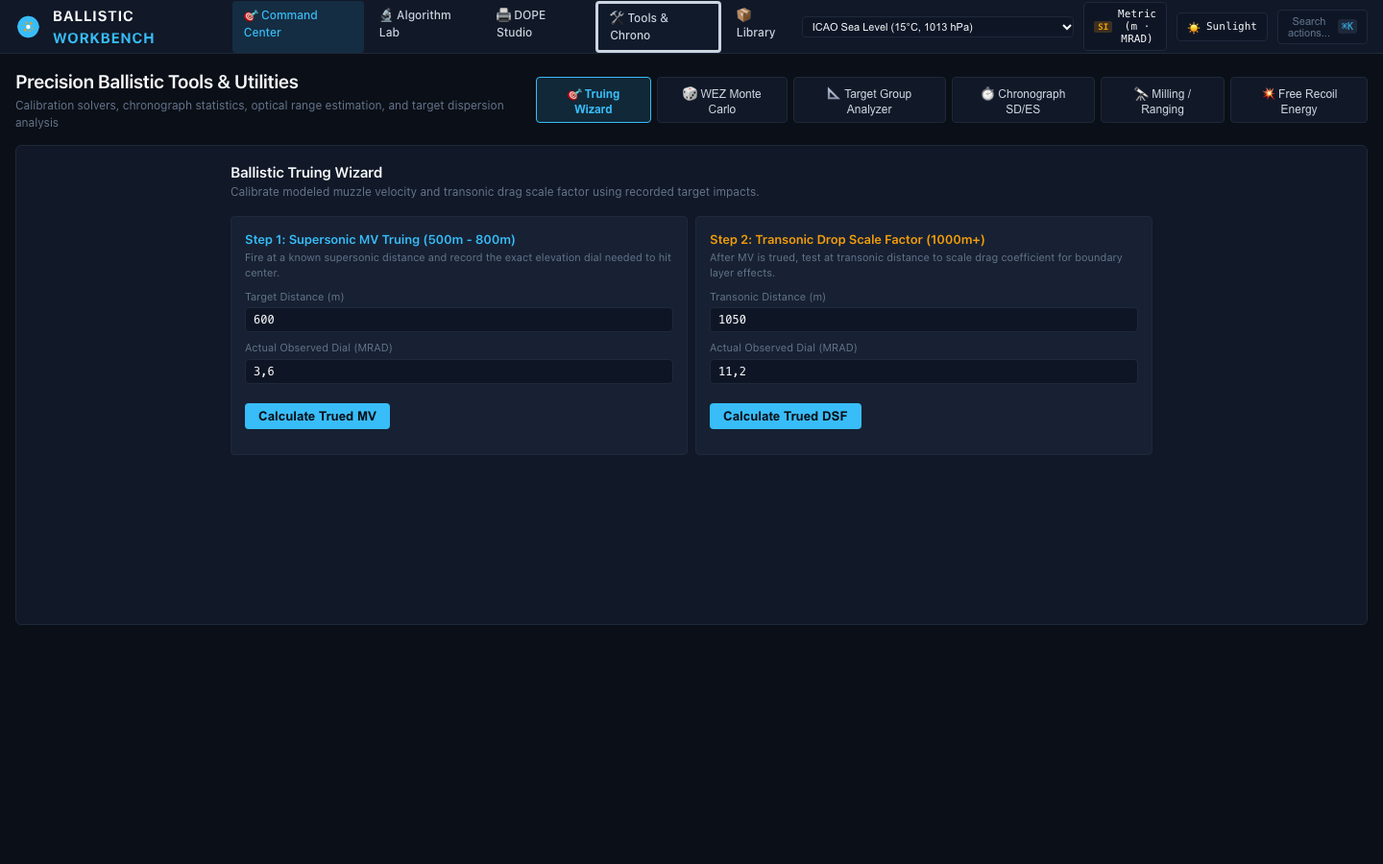
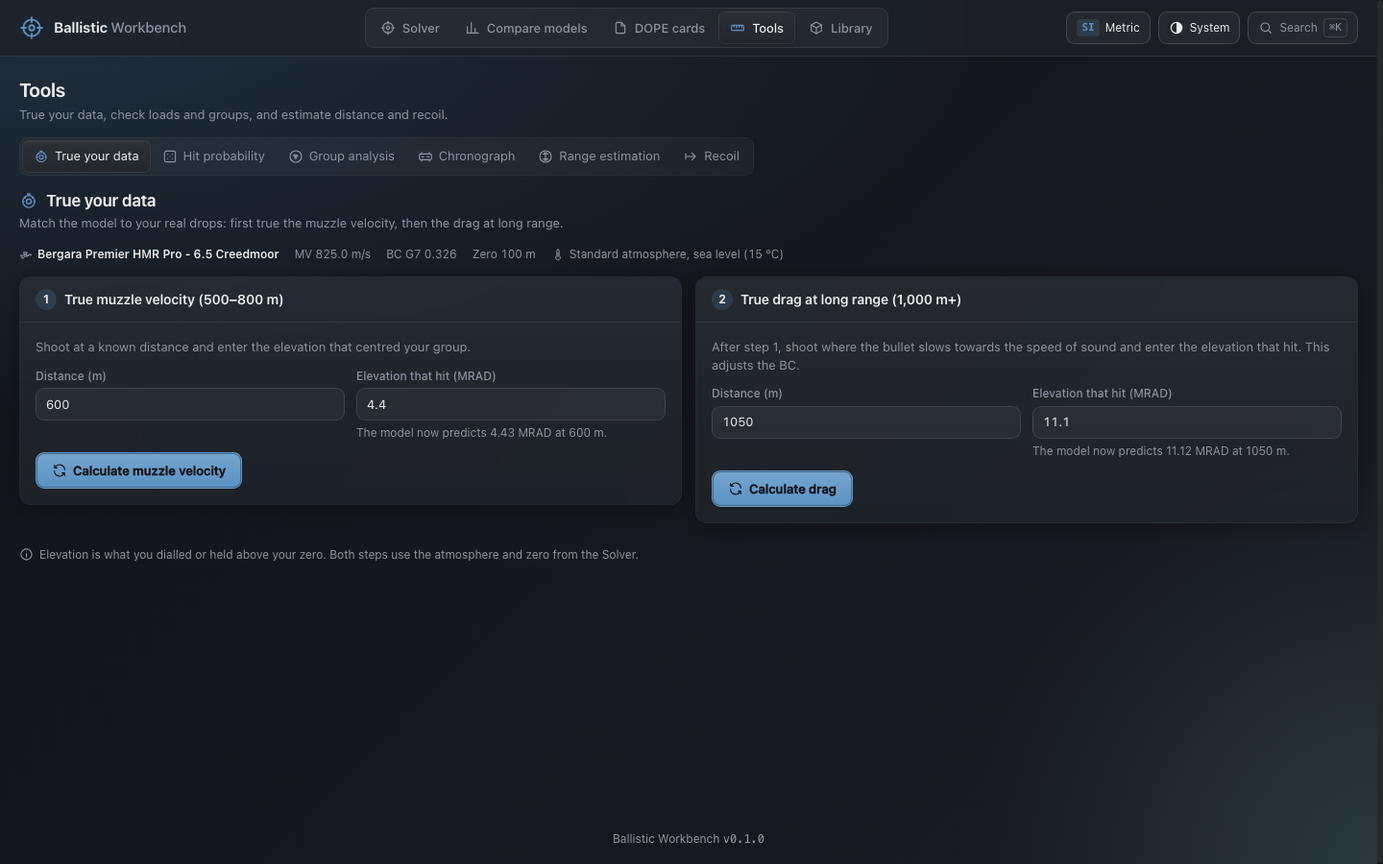
Docs: README, CHANGELOG, CLAUDE.md and screenshots for the redesign

diff --git a/README.md b/README.md
@@ -1,13 +1,13 @@
 # Ballistic Workbench
 
-An offline-first external ballistics workbench for precision rifle shooters. It solves
-trajectories with an RK4 integrator (G1, G7, Modified Point-Mass and 4DOF models), simulates
-reticle holdovers and turret dials, trues the model against real impacts, and prints DOPE cards
-in field formats: scope cap, wrist coach, stock tape, turret tape, PRS stage card and an A4 data
-sheet.
+An offline ballistics calculator for precision rifle shooters. Pick your rifle, set the distance
+and conditions, and it tells you what to dial: elevation and windage in MRAD or MOA, with the
+clicks for your scope. It also shows the hold in a simulated reticle, plots the trajectory, prints
+range cards (DOPE cards) and has tools to true the model against your real impacts.
 
-It's for long-range and PRS/NRL shooters, hunters and reloaders who want to plan and check
-firing solutions on a laptop or phone, with or without a network on the range.
+It's for long-range and PRS/NRL shooters, hunters and reloaders who want to plan and check firing
+solutions on a laptop or phone, with or without a network on the range. Everything runs in the
+browser; nothing is sent anywhere.
 
 **Version:** 0.1.0
 
@@ -18,26 +18,41 @@ firing solutions on a laptop or phone, with or without a network on the range.
 
 ### 0.1.0
 
-- First tracked version: the existing app brought under version control and the app standards.
-- Version number shown in the app footer, read from `manifest.json`.
-- README, CHANGELOG, CLAUDE.md, SECURITY.md and an MIT license.
+The first version, with a complete redesign and a corrected ballistics engine:
 
-Older versions: see [CHANGELOG.md](CHANGELOG.md).
+- **Correct drag model.** Standard G1 and G7 drag tables (JBM), cross-checked against an independent
+  solver within 0.01 MRAD and against Hornady's published 6.5 Creedmoor table. Corrected aerodynamic
+  jump, spin drift, cant, Coriolis, stability and powder temperature; the zero no longer shifts with
+  field conditions; 27 bullet BCs corrected to published values.
+- **New interface** in the Låda Glass design, dark and light (follows your system), custom icons,
+  plain-language text, and a phone layout.
+- **Solver** shows one clear firing solution (elevation and windage with direction and clicks),
+  with the reticle, trajectory chart and range table in tabs. Inputs are validated as you type.
+- **DOPE cards** print at exact physical size; **Tools** each give a plain verdict; **Library**
+  can edit, duplicate and delete rifles with undo.
+- **Security:** strict Content-Security-Policy, imported and saved data is validated, no inline
+  code, offline cache limited to the app's own files.
+
+See [CHANGELOG.md](CHANGELOG.md) for the full list.
 
 ## Screenshots
 
 <table>
   <tr>
-    <td><img src="docs/screenshots/workspace.png" alt="Command Center" width="400"><br>Command Center: telemetry, reticle and turret, trajectory chart and DOPE table</td>
-    <td><img src="docs/screenshots/solverLab.png" alt="Algorithm Lab" width="400"><br>Algorithm Lab: G1, G7, MPM and 4DOF solutions side by side</td>
+    <td><img src="docs/screenshots/workspace.png" alt="Solver, dark theme" width="420"><br>Solver: the firing solution, with the reticle hold and elevation turret</td>
+    <td><img src="docs/screenshots/workspace-light.png" alt="Solver, light theme" width="420"><br>The same in the light theme</td>
   </tr>
   <tr>
-    <td><img src="docs/screenshots/dopeStudio.png" alt="DOPE Studio" width="400"><br>DOPE Studio: print-ready range cards</td>
-    <td><img src="docs/screenshots/tools.png" alt="Tools and Chrono" width="400"><br>Tools &amp; Chrono: truing wizard, WEZ, group analysis and more</td>
+    <td><img src="docs/screenshots/dopeStudio.png" alt="DOPE cards" width="420"><br>DOPE cards: six printable formats with a true-size preview</td>
+    <td><img src="docs/screenshots/tools.png" alt="Tools" width="420"><br>Tools: true your data, hit probability, group analysis, chronograph, range estimation, recoil</td>
   </tr>
   <tr>
-    <td><img src="docs/screenshots/libraryManager.png" alt="Library" width="400"><br>Library: 177 projectiles, custom bullets and rifle profiles</td>
-    <td><img src="docs/screenshots/mobile.png" alt="Phone layout" width="200"><br>Phone width (390 px)</td>
+    <td><img src="docs/screenshots/libraryManager.png" alt="Library" width="420"><br>Library: your rifles, 177 bullets and your own bullets</td>
+    <td><img src="docs/screenshots/solverLab.png" alt="Compare models" width="420"><br>Compare models: how G1, G7, MPM and 4DOF differ for your rifle</td>
+  </tr>
+  <tr>
+    <td><img src="docs/screenshots/mobile.png" alt="Phone layout" width="200"><br>Phone layout (390 px)</td>
+    <td><img src="docs/screenshots/dope-light.png" alt="DOPE cards, light theme" width="420"><br>Full-page data sheet in the light theme</td>
   </tr>
 </table>
 
@@ -45,18 +60,18 @@ Older versions: see [CHANGELOG.md](CHANGELOG.md).
 
 | View | What it does |
 | --- | --- |
-| 🎯 **Command Center** | Live firing solution for the active rifle and environment: elevation, windage, velocity, time of flight, energy, supersonic limit and density altitude. Includes a reticle holdover simulator (FFP/SFP, several reticles), an interactive elevation turret, a trajectory chart (drop, velocity, wind drift, time of flight, energy), a wind clock and a configurable DOPE table with CSV export. |
-| 🔬 **Algorithm Lab** | Compares G1, G7, Modified Point-Mass and 4DOF solutions on one chart, with a delta table relative to G7. |
-| 🖨 **DOPE Studio** | Print-ready cards: scope cap (SVG), wrist coach, stock tape, turret tape, PRS stage card (with a stage builder, exportable as PNG) and an A4 master data sheet. |
-| 🛠 **Tools & Chrono** | Truing wizard (supersonic muzzle velocity and transonic drop scale factor), WEZ Monte Carlo hit probability, target group analyzer (from a photo or grid), chronograph SD/ES statistics, milling and range estimation, free recoil energy. |
-| 📦 **Library** | 177 factory projectiles with search and filters, a custom bullet builder with a live Miller stability estimate, rifle and optic profiles, and JSON backup and restore. |
+| **Solver** | The firing solution for the active rifle at the exact target distance: elevation and windage (MRAD or MOA, direction and clicks), velocity with Mach, time of flight, energy and how far the bullet stays supersonic. Tabs: a reticle view showing where to hold, with an elevation turret you can dial (mouse, touch or keyboard); a trajectory chart (drop, velocity, wind drift, time of flight, energy); a range table with CSV export, where you tick the distances for your DOPE card. |
+| **Compare models** | How the point-mass G1 and G7, modified point mass (MPM: adds spin drift, aerodynamic jump and Coriolis) and 4DOF solutions differ for your rifle, as difference charts and a table. "Use in Solver" switches the model. |
+| **DOPE cards** | Printable range cards at exact physical size: scope cap insert, 3 × 5 in wrist card, stock tape, turret tape, match stage card (with a stage builder and wind holds for lull, base and gust) and a full-page data sheet. Copy as text, save as image, or print. |
+| **Tools** | **True your data** (muzzle velocity from a 500–800 m impact, then drag from a 1,000 m+ impact, applied to the rifle), **Hit probability** (simulates 500–2,000 shots from your error sources and shows what causes misses), **Group analysis** (from a photo or clicks: extreme spread, mean radius, dispersion ellipse and the correction to centre the group), **Chronograph** (SD, ES, mean; use the mean as muzzle velocity), **Range estimation** (from target size and reticle reading), **Recoil** (free recoil energy and velocity). |
+| **Library** | Your rifles (use, edit, duplicate, delete with undo), 177 factory bullets with search and caliber filter (published BCs marked with their source, derived ones marked "estimated"), your own bullets with a live Miller stability check, and backup to / restore from a file. |
 
-A command palette (**⌘K** / **Ctrl+K**) reaches every view and most settings.
+The command palette (**⌘K** on Mac, **Ctrl+K** elsewhere) reaches every view, tool and setting.
 
 ## Installation
 
-There is no build step and no dependencies. The app is plain HTML, CSS and ES modules, served as
-static files.
+There is no build step and the app has no runtime dependencies: it is plain HTML, CSS and
+JavaScript modules served as static files.
 
 ```sh
 git clone https://github.com/jozeta/Ballistic-Workbench.git
@@ -64,53 +79,67 @@ cd Ballistic-Workbench
 python3 -m http.server 8080
 ```
 
-Then open <http://localhost:8080>. The app has to be served over HTTP: ES modules and the service
-worker don't load from `file://`.
+Then open <http://localhost:8080>. The app must be served over HTTP: JavaScript modules and the
+offline service worker don't load from `file://`.
 
-**Install as an app (PWA):** in Chrome or Edge, use *Install app* in the address bar. On iOS
-Safari, use *Share → Add to Home Screen*. After the first visit the app works fully offline.
+**Install as an app:** in Chrome or Edge, use *Install app* in the address bar; on iPhone or iPad,
+Safari's *Share → Add to Home Screen*. After the first visit the app works fully offline.
 
 ## Configuration
 
-All settings are stored in the browser (`localStorage`) and nothing leaves your device.
+Settings are stored in your browser (`localStorage`); nothing leaves your device. Use
+**Library → Export…** to keep a backup.
 
 | Setting | Where | Options | Default |
 | --- | --- | --- | --- |
-| Units | Header button / palette | Metric (m, m/s, MRAD, cm) or Imperial (yd, fps, MOA, in) | Metric |
-| Theme | Header button / palette | Dark (night) or high-contrast light (sunlight) | Dark |
-| Environment | Header dropdown | ICAO sea level, Alpine high (1,950 m), Desert heat (38 °C), Sub-zero winter (-12 °C), or custom values in the Command Center | ICAO sea level |
-| Rifle profile | Command Center / Library / palette | Bergara 6.5 Creedmoor, AI AXSR .300 PRC, Tikka T3x .308, Remington 700 .223, or your own | Bergara 6.5 Creedmoor |
-| Solver algorithm | Command Center / palette | G1, G7, MPM, 4DOF | G7 |
-| Table step | DOPE table | Range step between rows | 25 m |
-| Max range | Solver config | Furthest range solved | 1,200 m |
-| Spin drift, Coriolis, aerodynamic jump | Solver config | On / off | All on |
-| Target | Command Center | Distance, shape (IPSC, circle, square, NATO E), size, speed and direction | 600 m IPSC torso (45 × 75 cm), stationary |
+| Units | Header button, palette | Metric (m, m/s, MRAD, cm) or imperial (yd, fps, MOA, in) | Metric |
+| Theme | Header button, palette | System, light, dark | System |
+| Rifle | Solver, Library, palette | Four example rifles (6.5 Creedmoor, .300 PRC, .308 Win, .223 Rem) or your own | 6.5 Creedmoor |
+| Distance and target | Solver → Target | Distance; target IPSC torso, round plate, square plate or NATO E | 600 m, IPSC torso |
+| Load and rifle | Solver → Load and rifle | Muzzle velocity, bullet weight, drag model (G1/G7), BC, solver model, sight height, zero distance, twist | From the rifle |
+| Solver model | Solver → Load and rifle, Compare models, palette | Point mass G7, point mass G1, modified point mass, 4DOF | Point mass G7 |
+| Atmosphere | Solver → Atmosphere | Presets (sea level, mountains 1,950 m, desert heat, winter) or your own temperature, station pressure, altitude and humidity; density altitude is shown | Standard atmosphere, sea level |
+| Wind | Solver → Wind | Speed and the direction it comes from (drag the wind clock or type degrees; 90° = from the right) | 4 m/s from 3 o'clock |
+| Shot angle and cant | Solver → Shot angle and cant | Inclination (+ uphill) and rifle cant (+ right) | 0° and 0° |
+| Scope | Solver → Reticle tab, rifle dialog | Reticle, first or second focal plane, magnification, click value (0.1 / 0.05 MRAD, 1/4 / 1/8 MOA) | From the rifle |
+| Range table | Solver → Range table | Row spacing 10 / 25 / 50 / 100 m; visible columns | 25 m, all columns |
+| DOPE card | DOPE cards | Format, distances (defaults or the ones ticked in the Solver), card size and colour | Full page |
 
 ## How to
 
-- **Get a firing solution:** pick a rifle profile, set the environment (or a preset), drag the
-  target range. The telemetry bar and the turret show the dial; the reticle shows the holdover.
-- **Add your own rifle:** Command Center → **+ New**, or Library → Saved Rifle & Optic Systems.
-  Enter muzzle velocity, sight height, zero, twist and the optic, then save.
-- **Add a custom bullet:** Library → Custom Projectile Builder. The Miller stability estimate
-  updates as you type; aim for Sg ≥ 1.5.
-- **True your model:** Tools & Chrono → Truing Wizard. Enter the dial that actually hit at a
-  supersonic distance (500 to 800 m) to true muzzle velocity, then a transonic distance (1000 m+)
-  to scale drag.
-- **Print a DOPE card:** DOPE Studio → pick a format → its **Print** button (the print stylesheet strips the
-  UI), or **Download SVG** / **Save PNG** where offered.
-- **Back up or move your data:** Library → **Export Library (JSON)**; restore with **Import JSON** on any device.
-- **Export the DOPE table:** Command Center → DOPE table → **CSV**.
+- **Get a firing solution:** choose your rifle at the top of the Solver, set the distance under
+  **Target**, then check **Atmosphere** and **Wind**. The firing solution card shows what to dial.
+- **Add your rifle:** press **+** next to the rifle in the Solver, or **Library → New rifle**. Pick a
+  bullet from the list (or enter your own), then the muzzle velocity, zero, sight height and scope.
+- **True the model to your rifle:** **Tools → True your data.** Shoot at 500–800 m, enter the
+  elevation that centred your group and apply the muzzle velocity. Then do the same at 1,000 m or
+  more to true the drag (it adjusts the BC).
+- **Use your chronograph:** **Tools → Chronograph**, paste the velocities (spaces, commas or new lines
+  between readings; 825,4 and 825.4 both work) and use the mean as the rifle's muzzle velocity.
+- **Print a DOPE card:** in the Solver's **Range table**, tick the distances you want and press
+  **Make DOPE card** (or go to **DOPE cards** directly for sensible defaults). Pick a format and press
+  **Print card**. Check the 50 mm scale bar with a ruler: printers sometimes scale pages.
+- **Plan a match stage:** **DOPE cards → Stage card**, choose a preset or add targets, set the lull,
+  base and gust wind; the card shows the elevation and wind hold for every target.
+- **Back up or move your data:** **Library → Export…** saves a file; **Import…** restores it on any
+  device (files are checked before anything is replaced).
 
 ## Tests
 
 ```sh
-node tests/verify.mjs          # physics, solvers, units, truing and WEZ
-node tests/version.mjs         # version agrees across manifest, service worker, README and CHANGELOG
-node tests/browser_check.mjs   # headless Chrome: every view, interactions, zero console errors
+npm install          # dev tools only (ESLint); the app itself needs nothing
+npm test             # physics and reference checks, helpers, version, offline cache list
+npm run test:browser # headless Chrome: every view in both themes and at phone width
+npm run lint
 ```
 
-`browser_check.mjs` needs Google Chrome installed in `/Applications`.
+`test:browser` needs Google Chrome (set `CHROME_PATH` if it isn't in `/Applications`). CI runs all of
+these on every push.
+
+## Design
+
+The interface uses Låda Glass 2.2.0 (`vendor/lada-glass/2.2.0/`). The icons (`assets/icons.svg`) and
+line-art graphics (`assets/art.svg`) are drawn for this app in the same style.
 
 ## License
 

diff --git a/CLAUDE.md b/CLAUDE.md
@@ -4,54 +4,71 @@ This file provides guidance to Claude Code (claude.ai/code) when working with co
 
 ## What this is
 
-Ballistic Workbench: an offline-first PWA for precision rifle external ballistics (RK4 trajectory
-solver with G1/G7/MPM/4DOF models, reticle and turret simulation, truing, WEZ Monte Carlo, printable
-DOPE cards). Vanilla JavaScript ES modules, no framework, no build step, no runtime dependencies.
-Public repo (MIT).
+Ballistic Workbench: an offline-first PWA ballistics calculator for precision rifle shooters (RK4
+point-mass solver with standard G1/G7 drag, MPM and a 4DOF variant; reticle and turret simulation;
+truing; hit-probability Monte Carlo; printable DOPE cards). Vanilla JavaScript ES modules, no
+framework, no build step, no runtime dependencies. Public repo (MIT).
 
 ## Commands
 
 ```sh
-python3 -m http.server 8080    # serve the app at http://localhost:8080 (must be HTTP, not file://)
-node tests/verify.mjs          # physics/solver/unit suite (~2600 assertions)
-node tests/version.mjs         # version consistency
-node tests/browser_check.mjs   # headless Chrome via CDP: all views, interactions, zero console errors
+python3 -m http.server 8080    # serve at http://localhost:8080 (must be HTTP, not file://)
+npm install                    # dev tooling only (ESLint)
+npm test                       # verify.mjs (physics + reference checks), helpers, version, sw-assets
+npm run test:browser           # headless Chrome E2E: every view, both themes, 390 px (CHROME_PATH to override)
+npm run lint
 ```
 
 ## Layout
 
-- `index.html`: app shell (header, nav, footer, command palette). `src/ui/app.js` bootstraps
-  and hash-routes between the five views.
-- `src/ui/`: one class per view (`workspace`, `solverLab`, `dopeStudio`, `tools`,
-  `libraryManager`) plus `rifleBuilderModal`. Views render with template strings into their container.
-- `src/core/state.js`: the reactive store (`appState`), persisted to `localStorage`, JSON
-  import/export. `src/core/units.js`: all unit conversion; physics works in SI internally.
-- `src/physics/`: `solvers.js` (RK4 integrator, zeroing), `atmosphere.js`, `truing.js`, `wez.js`.
-  Pure functions, tested in Node by `tests/verify.mjs`.
-- `src/data/`: drag tables, 177 projectiles, default rifle and environment profiles.
-- `src/canvas/`: canvas renderers (charts, reticle, turret, wind rose).
-- `styles/main.css` (themes via `[data-theme="light"]`), `styles/print.css` (card printing).
-- `sw.js`: network-first service worker; its asset list must include every new file.
+- `index.html`: shell (header nav, units/theme/search buttons, footer, strict CSP). `src/ui/app.js`
+  bootstraps, hash-routes between views, owns theme (System/Light/Dark → always sets
+  `<html data-theme>`), units button and the Låda command palette.
+- Views (`src/ui/`): `workspace.js` (Solver), `solverLab.js` (Compare models), `dopeStudio.js`
+  (DOPE cards), `tools.js`, `libraryManager.js`, plus `rifleBuilderModal.js` (rifle dialog).
+  **View contract:** constructor(container) renders; `refresh()` rebuilds everything (theme change);
+  `destroy()` removes subscriptions, observers and listeners. Views render template strings.
+- UI helpers: `icons.js` (`icon(name)` from `assets/icons.svg`), `fields.js` (`bindNumber` validated
+  number inputs with inline errors, `parseNumber` accepts comma decimals), `notify.js` (`toast`).
+- Core: `state.js` (reactive `appState`, localStorage, import/export), `sanitize.js` (validates every
+  stored/imported object against templates), `escape.js` (`esc`, `num`), `units.js`,
+  `trajectory.js` (`interpolateAt`).
+- Physics (`src/physics/`): `solvers.js`, `atmosphere.js`, `truing.js`, `wez.js`. Pure, SI units,
+  tested in Node. Drag tables in `src/data/dragTables.js` are the standard JBM G1/G7 tables; don't
+  edit values without a reference test.
+- Canvases (`src/canvas/`): chart, reticle, turret, wind clock; colours from `palette.js`
+  (`getPalette()` reads the Låda tokens), so they follow the theme.
+- Styles: Låda Glass in `vendor/lada-glass/2.2.0/`; `styles/main.css` (tokens mapping, header,
+  shared components, Solver); `styles/views/*.css` per view; `styles/print.css` (DOPE cards only).
+- `sw.js`: network-first service worker; `STATIC_ASSETS` must list every app file
+  (`tests/sw-assets.mjs` fails otherwise).
 
 ## Version
 
-`manifest.json` `"version"` is the single source. The footer reads it at runtime; `sw.js`'s
-`CACHE_NAME` repeats it, and so do the README "**Version:**" line and the newest CHANGELOG section.
+`manifest.json` `"version"` is the single source. The footer reads it at runtime; `package.json`,
+`sw.js`'s `CACHE_NAME`, the README "**Version:**" line and the newest CHANGELOG section repeat it.
 `tests/version.mjs` fails if they disagree, so bump them all in the same commit.
 
 ## Working agreements
 
 - This repo follows the app standards in `~/Desktop/code/tools/standards/STANDARDS.md` (rule IDs,
   severities). `claude-check --repo .` checks it; decisions and reasoned waivers go in `.claude-standards`.
-- Design decision: move to the Låda Glass family look (`design=family`), done as its own step.
-- Plan before building: agree on goals, scope and approach first, then implement in small,
-  tested steps (failing test first).
-- Untrusted data (imported JSON, `localStorage`, user input, URLs) is rendered with `textContent`
-  or escaped, never raw into `innerHTML`. No `eval`, no third-party requests (self-host anything in `vendor/`).
-- Physics changes need a test in `tests/verify.mjs`; UI changes must keep `browser_check.mjs` at zero console errors.
+- Design: Låda Glass (`design=family`). Colours only from `--lg-*` tokens (no hex in app CSS; the
+  printed DOPE cards have fixed paper/ink tokens on purpose). Icons from the sprite; no emoji.
+  Plain-language, sentence-case copy; explain jargon once.
+- Security: any string from user input, storage or an import goes through `esc()` before it is put
+  into a template; reviewed `innerHTML` sinks carry an `eslint-disable-next-line
+  no-unsanitized/property -- reviewed: …` comment. No inline styles or handlers (CSP); dynamic sizes
+  via the CSSOM. No third-party requests.
+- Units: physics is SI; every displayed number follows `appState.state.displayUnits`; clicks come
+  from the scope's `clickValueRad`, not the unit system.
+- Plan before building: agree on goals, scope and approach first, then implement in small, tested
+  steps. Physics changes need a reference test in `tests/verify.mjs`; UI changes keep
+  `npm run test:browser` green (zero console errors).
 - Record user-visible changes under "Unreleased" in `CHANGELOG.md`. Bump the version on every push
   that changes the app (patch: fixes, minor: features, major: breaking changes), and in the same
   commit move "Unreleased" under the new version and update the README's version and "What's new".
 - The README stays detailed (features, installation, every setting with its default, how-tos,
   screenshots in a grid with captions). Screenshots live in `docs/screenshots/`.
+- `PRODUCT_RESEARCH_AND_FEATURE_ROADMAP.md` (feature research) is gitignored; don't commit it.
 - There is no GitHub remote yet. Don't push or create repos unless asked.

diff --git a/CHANGELOG.md b/CHANGELOG.md
@@ -7,12 +7,72 @@ All notable changes to Ballistic Workbench. Newest first; versions follow
 
 ## 0.1.0 - 2026-11-15
 
-### Added
+The first version: the existing app brought under version control, redesigned and audited
+(code bugs, security, ballistics math, UX and copy).
 
-- Version number in the app footer, read from `manifest.json` (the single version source).
-- `tests/version.mjs`: checks the version agrees across manifest, service worker, README and CHANGELOG.
-- README, CHANGELOG, CLAUDE.md, SECURITY.md and an MIT license.
+### Ballistics (corrected results)
 
-### Changed
+- Standard JBM G1 (79 points) and G7 (84 points) drag tables. The old tables had far too little
+  supersonic drag: 6.5 Creedmoor 140 ELD-M at 1000 m showed 8.5 instead of 10.2 MRAD, .223 77 gr
+  11.5 instead of 16.1 MRAD. Results now agree with an independent solver within 0.01 MRAD and with
+  Hornady's published 6.5 Creedmoor table.
+- The zero is solved level, without wind, cant, Coriolis or jump, so it no longer shifts with field
+  conditions.
+- Aerodynamic jump from Litz (was about 50× too large); spin drift from Litz; Miller stability
+  atmospheric correction un-inverted; cant rotates the launch direction; Coriolis checked against
+  py-ballisticcalc; a latitude of 0° is honoured; powder temperature is applied.
+- The solution is interpolated at the exact target distance (it snapped to the nearest table row).
+- Wind speed and direction now change the solution (stored wind zones overrode them); a 0 wind or
+  a 0° direction is no longer replaced by defaults.
+- Hit probability: sensitivity derivatives from one consistent solve (up to 8× off before), correct
+  range-error term. Truing solves at the exact distance.
+- Reticle: the hold mark is on the downwind side (it was mirrored); second-focal-plane holds scale
+  with magnification.
+- DOPE cards: danger space uses the descent angle; clicks follow the scope's click value.
+- Bullet library: 27 G7 BCs corrected to published values (with source); 133 derived ones are
+  marked "estimated".
 
-- The service worker cache name now follows the app version, so each release replaces the old cache.
+### Interface
+
+- Låda Glass 2.2.0 design; dark and light themes following the system (System / Light / Dark);
+  custom ballistics icon set and line-art graphics; no emoji.
+- New navigation: Solver, Compare models, DOPE cards, Tools, Library; command palette with keyboard
+  support (⌘K / Ctrl+K).
+- Solver: setup column with collapsible sections and a firing-solution card (elevation and windage
+  with direction and clicks); reticle and turret, trajectory chart and range table in tabs; on a
+  phone the answer comes first.
+- Validated number inputs with inline messages (comma decimals accepted); solver model chosen
+  separately from the bullet's drag model.
+- DOPE cards: format picker, true-size preview, prints at exact physical size, ranges from the
+  Solver interpolated and capped per card.
+- Tools: six tools with a clear input → result flow and a plain verdict; chronograph unit switch.
+- Library: edit, duplicate and delete rifles with undo; using a bullet keeps your trued muzzle
+  velocity; searchable bullet list.
+- Accessible: labelled fields, keyboard-operable tabs, dialogs, turret and wind clock; screen-reader
+  text for charts; 44 px touch targets; no horizontal scrolling at 390 px.
+- Plain-language copy throughout; units follow the setting everywhere (several tools were
+  metric-only; the chronograph saved fps as m/s).
+- Version number in the footer.
+
+### Fixed
+
+- Tools initialised twice (Calibrate Scale did nothing; the simulation ran twice).
+- Compare models went blank after a theme change; views went stale after changes elsewhere.
+- Window listeners leaked on every re-render.
+- Malformed imports could break the app permanently; a zero or tiny table step could hang it.
+- The rifle dialog's "Doppler" option silently halved the BC; invalid numbers were replaced with
+  defaults.
+
+### Security
+
+- Strict Content-Security-Policy (no inline scripts or styles, no third-party hosts).
+- Everything loaded from storage or an imported file is validated; stored strings are HTML-escaped
+  wherever they are shown.
+- Upload limits for imports (2 MB) and target photos (PNG/JPEG/WebP, 25 MB).
+- The offline cache only stores the app's own files.
+
+### Project
+
+- README, CHANGELOG, CLAUDE.md, SECURITY.md, MIT license, ESLint, GitHub Actions CI.
+- Tests: physics reference checks (2762), helpers, version, offline cache list, and an end-to-end
+  browser test of every view in both themes and at phone width.
